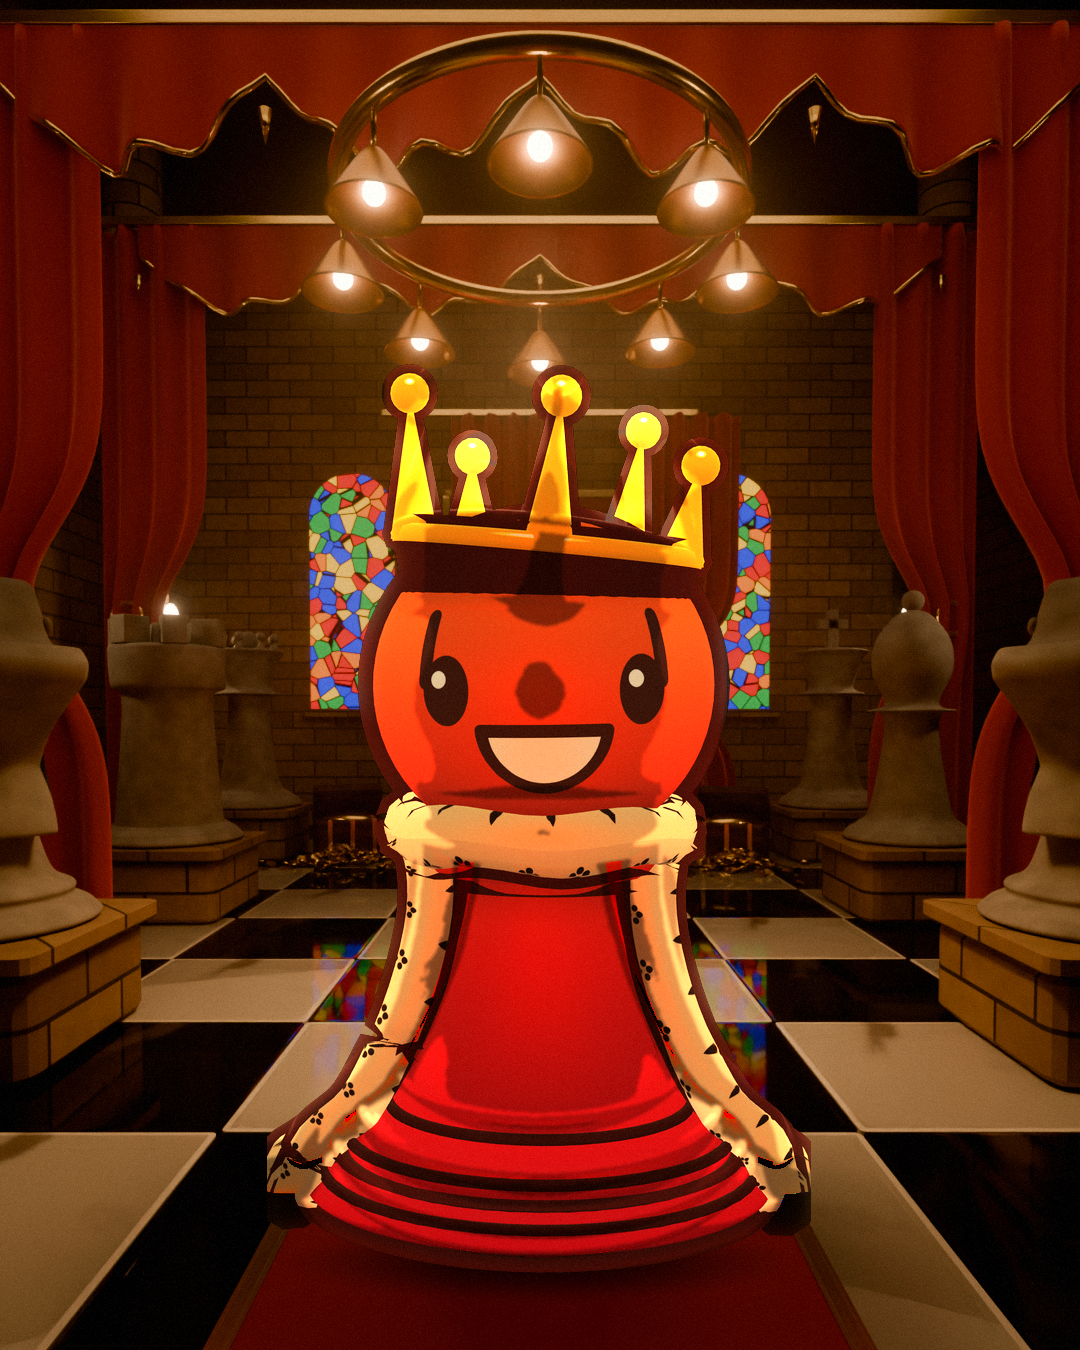
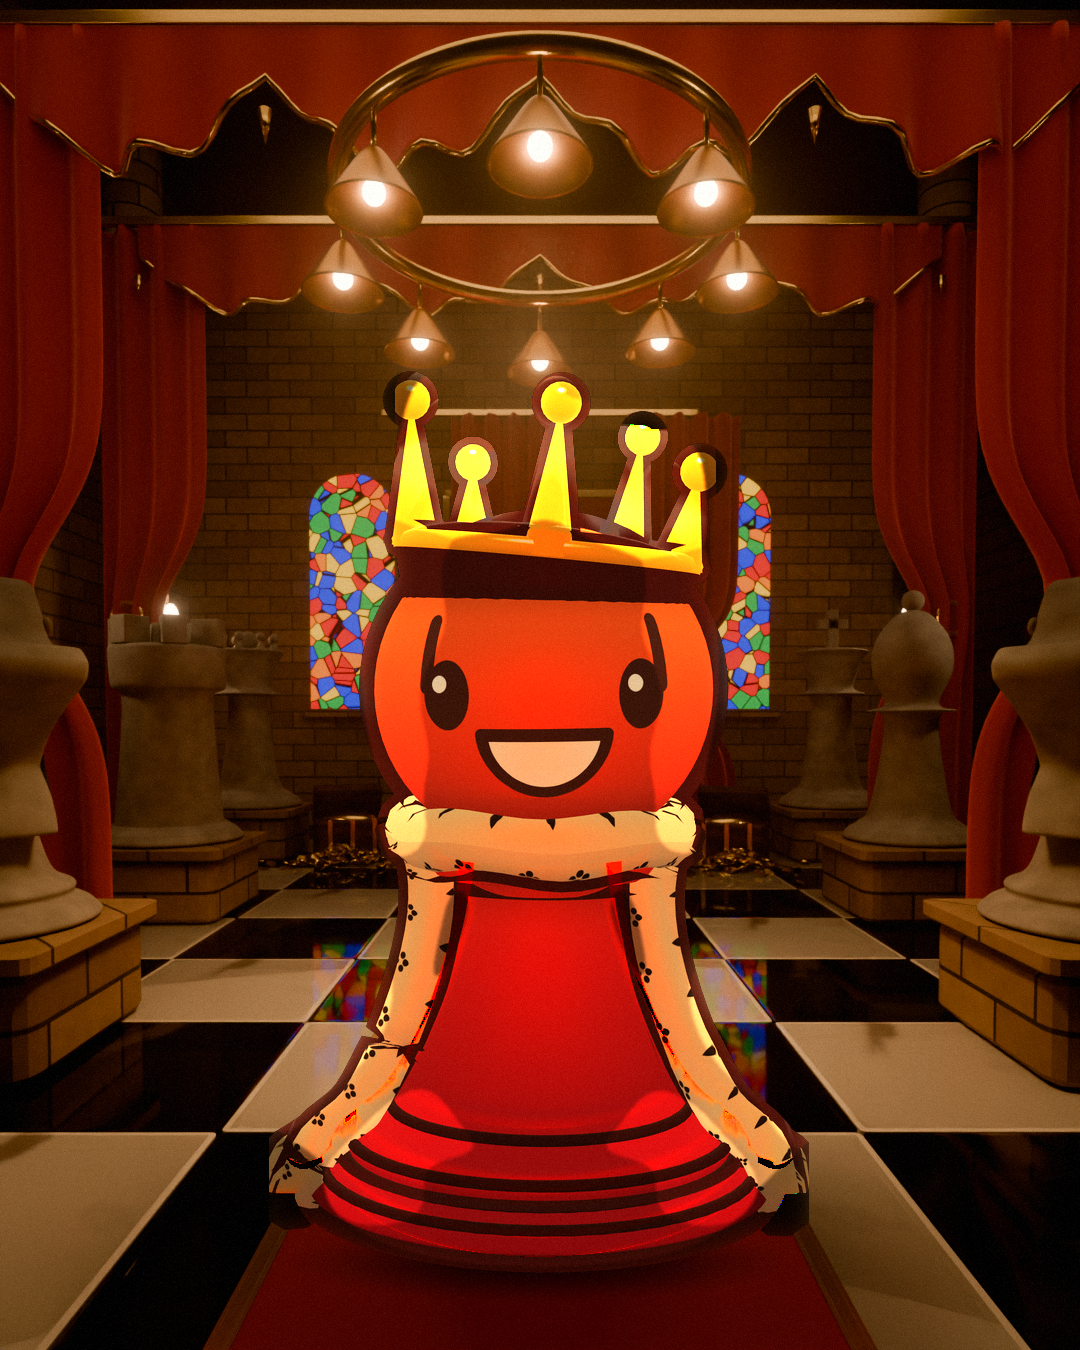
fix(pion3d): no dark dot on the relit face; proxy matches engine
The shadow proxy keeps the engine's crown size, so its head lines up
with the engine Pion (PROXY_H 4.65). Relight smooths the light before
banding and majority-votes bands per neighbourhood, so a slight dip in
the light can no longer turn into a lone dark dot mid-face. Final 4:5
stills for hangat and pencerahan.

Claude-Session: https://claude.ai/code/session_01Y3DguRHNFhJHvDX1N5rj1S

Changed region(s): [[0.2444, 0.2489, 0.7639, 0.9333], [0.3056, 0.4978, 0.3361, 0.5289]]

diff --git a/pion3d/comp_pion.py b/pion3d/comp_pion.py
@@ -16,7 +16,7 @@ import numpy as np
 from PIL import Image, ImageFilter
 
 ENGINE_H = 4.65   # engine pion height (model units, crown tip to base)
-PROXY_H = 4.83    # Blender proxy height: its crown is scaled 1.18 in z
+PROXY_H = 4.65    # Blender proxy height: same proportions as the engine (crown not enlarged)
 
 
 def _box(a, r, axis):
@@ -58,12 +58,20 @@ def relight(rgb, alpha, light_png, size, strength, bands, ref_pct=55, floor=0.5,
     # keep the room's warm cast (torches, candles): only take out half of the average tint
     if inside.any():
         tint = tint / (0.5 + 0.5 * tint[inside].mean(0))
-    if bands > 0:  # cel steps with a soft 1.5 px edge
+    if bands > 0:  # cel steps with a soft edge
+        # smooth first (scaled to the frame) so small dips in the light, like the slightly darker
+        # middle of a face lit from above, cannot become a lone dark island after quantising
+        shade = _blur(shade.astype(np.float32), max(4, size[0] // 55))
         levels = np.linspace(floor, top, bands)
         step = (top - floor) / max(bands - 1, 1)
         idx = np.clip(np.round((shade - floor) / step), 0, bands - 1).astype(int)
+        # majority vote per neighbourhood: islands smaller than ~3 % of the frame width (a dark dot
+        # in the middle of the face) take the band around them; big cel shapes keep their edges
+        R = max(6, size[0] // 30)
+        votes = np.stack([_blur((idx[..., 0] == k).astype(np.float32)[..., None], R)[..., 0] for k in range(bands)], -1)
+        idx = votes.argmax(-1)[..., None]
         q = levels[idx]
-        shade = _blur(q.astype(np.float32), 2)
+        shade = _blur(q.astype(np.float32), max(2, size[0] // 360))
     factor = shade * tint
     factor = 1 + (factor - 1) * strength
     # rim: the brightest light (window behind) adds a warm edge, not just a multiply

diff --git a/pion3d/build_castle.py b/pion3d/build_castle.py
@@ -658,6 +658,9 @@ def pion_mat(name, base=None, ramp_fn=None, spec=0.0, dots=False, floor=0.06, gi
 
 def build_pion(expr):
     rig, PM = BP.build(expr)
+    cr = bpy.data.objects.get("CrownRoot")
+    if cr:   # the proxy must match the engine's proportions exactly (build_pion enlarges the crown)
+        cr.scale = (1.0, 1.0, 1.0)
     for o in bpy.data.objects:
         for md in list(o.modifiers):
             if md.type == "PARTICLE_SYSTEM":
